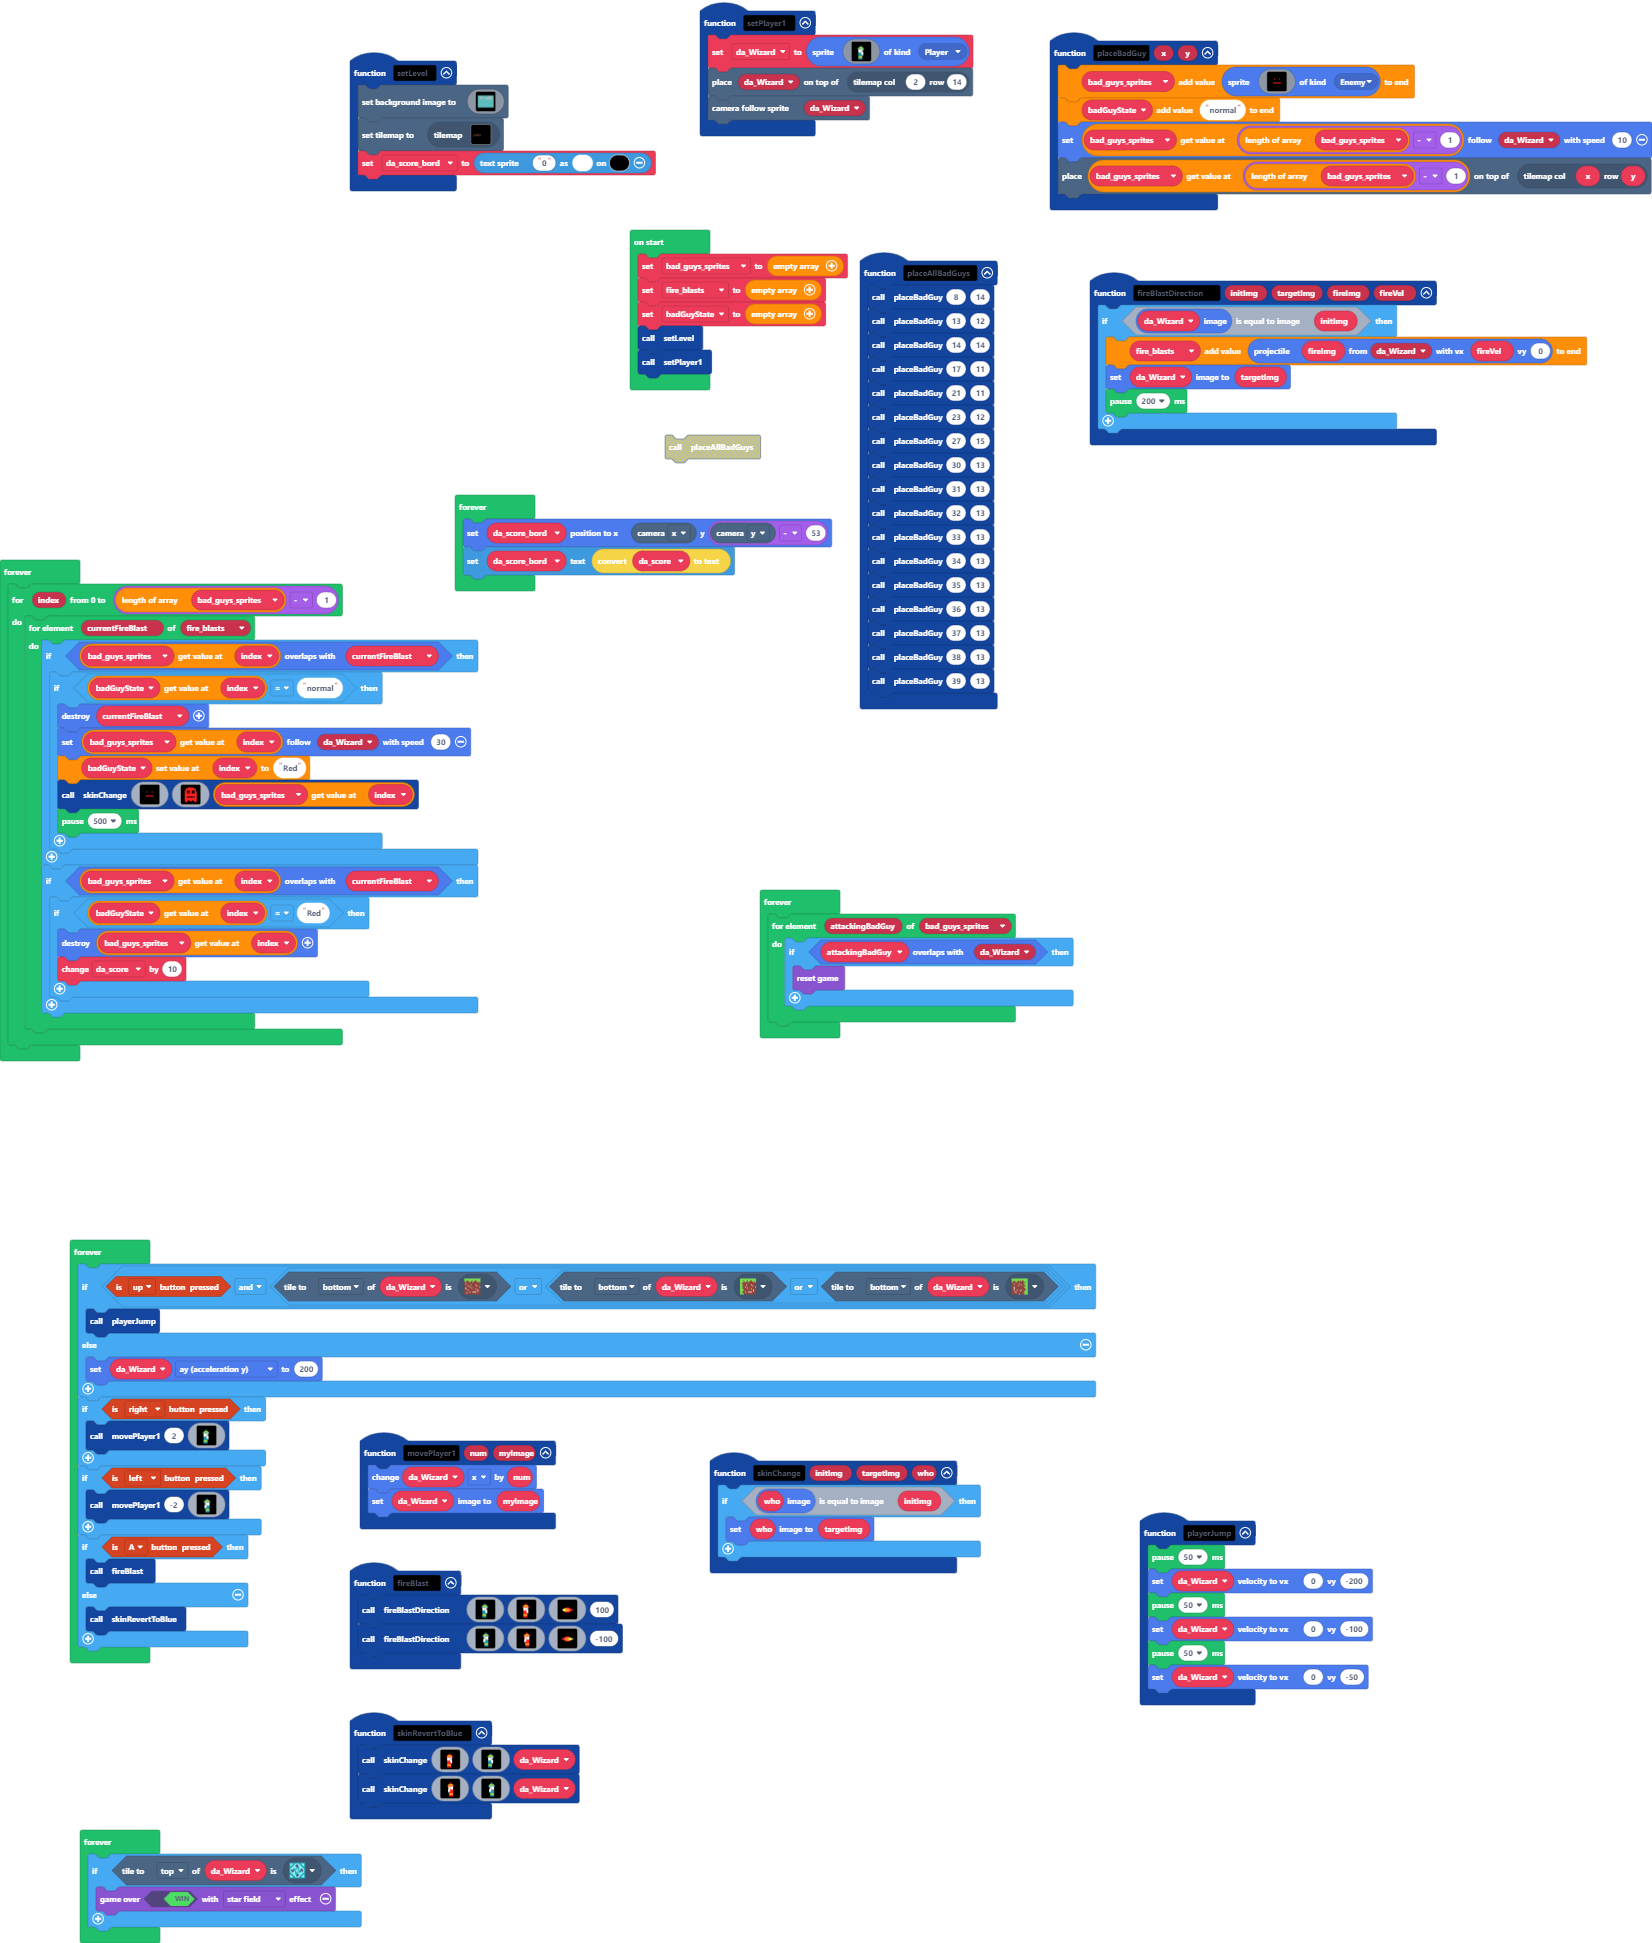
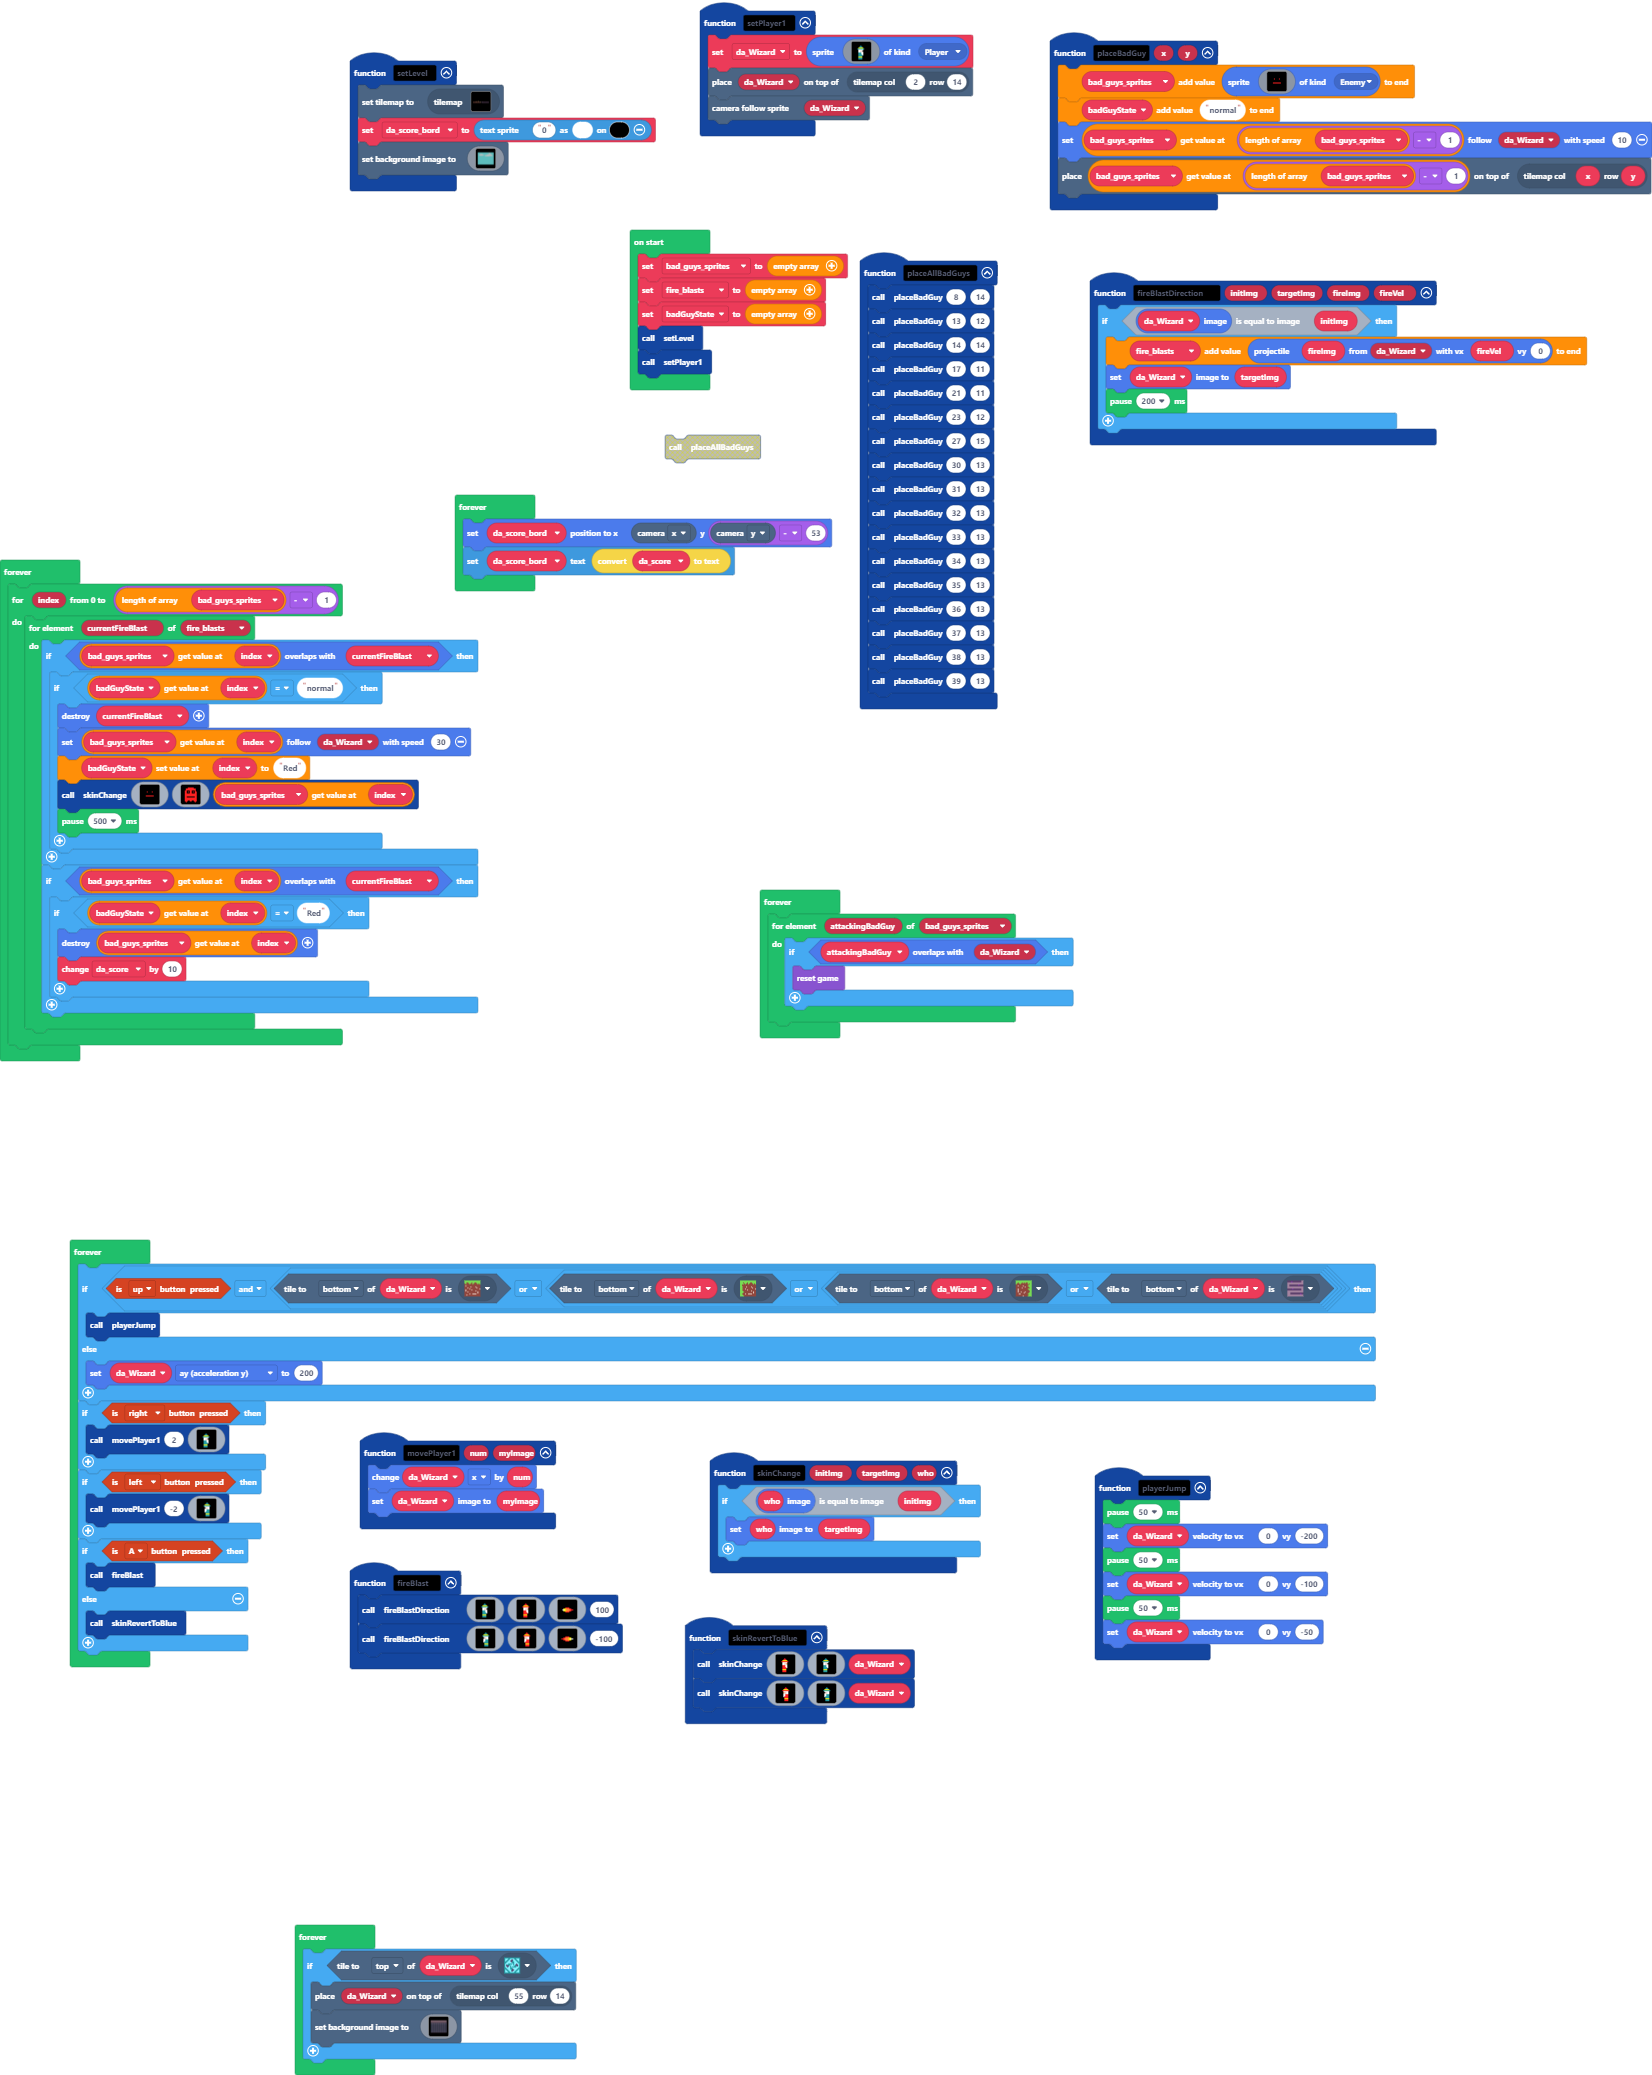
Update main.blocks, main.ts, tilemap.g.jres, tilemap.g.ts

diff --git a/tilemap.g.ts b/tilemap.g.ts
@@ -27,31 +27,8 @@ namespace myTiles {
 
     helpers._registerFactory("tilemap", function(name: string) {
         switch(helpers.stringTrim(name)) {
-            case "level2":
-            case "level2":return tiles.createTilemap(hex`3200140000000000000000000000000000000000000000000000000000000000000000000000000000000000000000000000000000000000000000000000000000000000000000000000000000000000000000000000000000000000000000000000000000000000000000000000000000000000000000000000000000000000000000000000000000000000000000000000000000000000000000000000000000000000000000000000000000000000000000000000000000000000000000000000000000000000000000000000000000000000000000000000000000000000000000000000000000000000000000000000000000000000000000000000000000000000000000000000000000000000000000000000000000000000000000000000000000000000000000000000000000000000000000000000000000000000000000000000000000000000000000000000000000000000000000000000000000000000000000000000000000000000000000000000000000000000000000000000000000000000000000000000000000000000000000000000000000000000000000000000000000000000000000000000000000000000000000000000000000000000000000000000000000000000000000000000000000000000000000000000000000000000000000000000000000000000000000000000000000000000000000000000000000000000000000000000000000000000000000000000000000000000000000000000000000000000000000000000000000000000000000000000000000000000000000000000000000000000000000000000000000000000000000000000000000000000000000000000000000000000000000000000000000000000000000000000000000000000000000000000000000000000000000000000000000000000000000000000000000000000000000000000000000000000000000000000000000000000000000000000000000000000000000000000000000000000000000000000000000000000000000000000000000000000000000000000000000000000000000000000000000000000000000000000000000000000000000000101010101010101010101010101010101010101010101010101010101010101010101010101010101010101010101010101010101010101010101010101010101010101010101010101010101010101010101010101010101010101010101010101010101010101010101010101010101010101010101010101010101010101010101010101010101010101010101010101010101010101010101010101010101010101010101010101010101010101010101010101010101010101010101010101010101010101`, img`
-..................................................
-..................................................
-..................................................
-..................................................
-..................................................
-..................................................
-..................................................
-..................................................
-..................................................
-..................................................
-..................................................
-..................................................
-..................................................
-..................................................
-..................................................
-..................................................
-22222222222222222222222222222222222222222222222222
-22222222222222222222222222222222222222222222222222
-22222222222222222222222222222222222222222222222222
-22222222222222222222222222222222222222222222222222
-`, [myTiles.transparency16,myTiles.tile11], TileScale.Sixteen);
             case "level1":
[2 lines of base64/hex data omitted]
 ....................................................................................................
 ....................................................................................................
 ....................................................................................................
@@ -61,18 +38,18 @@ namespace myTiles {
 ....................................................................................................
 ....................................................................................................
 ....................................................................................................
-................................222.................................................................
-................................222.................................................................
-..............................22222.................................................................
-..................222.........22222.................................................................
-.................222222.............................................................................
-.....222........22222222......222222.........2......................................................
-....2222.......222222222.....2222222................................................................
-22222222222222222222222222222222222222222222222222..................................................
-22222222222222222222222222222222222222222222222222..................................................
-22222222222222222222222222222222222222222222222222..................................................
-22222222222222222222222222222222222222222222222222..................................................
-`, [myTiles.transparency16,sprites.dungeon.collectibleInsignia,myTiles.tile1,myTiles.tile3,myTiles.tile4,myTiles.tile5,myTiles.tile6,myTiles.tile7,myTiles.tile2,myTiles.tile8,myTiles.tile9,myTiles.tile10], TileScale.Sixteen);
+................................222...................2.............................................
+................................222...................2.............................................
+..............................22222...................2.............................................
+..................222.........22222...................2.............................................
+.................222222...............................2.............................................
+.....222........22222222......222222.........2........2.............................................
+....2222.......222222222.....2222222..................2.............................................
+22222222222222222222222222222222222222222222222222....2222222222222222222222222222222222222222222222
+22222222222222222222222222222222222222222222222222....2222222222222222222222222222222222222222222222
+22222222222222222222222222222222222222222222222222....2222222222222222222222222222222222222222222222
+22222222222222222222222222222222222222222222222222....2222222222222222222222222222222222222222222222
+`, [myTiles.transparency16,sprites.dungeon.collectibleInsignia,myTiles.tile1,myTiles.tile3,myTiles.tile4,myTiles.tile5,myTiles.tile6,myTiles.tile7,myTiles.tile2,myTiles.tile8,myTiles.tile9,myTiles.tile10,myTiles.tile11], TileScale.Sixteen);
         }
         return null;
     })

diff --git a/main.ts b/main.ts
@@ -1,7 +1,7 @@
 function setLevel () {
-    scene.setBackgroundImage(assets.image`sus sky`)
     tiles.setCurrentTilemap(tilemap`level1`)
     da_score_bord = textsprite.create("0", 15, 1)
+    scene.setBackgroundImage(assets.image`sus sky`)
 }
 function skinChange (initImg: Image, targetImg: Image, who: Sprite) {
     if (who.image.equals(initImg)) {
@@ -109,7 +109,7 @@ forever(function () {
     }
 })
 forever(function () {
-    if (controller.up.isPressed() && (da_Wizard.tileKindAt(TileDirection.Bottom, assets.tile`Grass up`) || (da_Wizard.tileKindAt(TileDirection.Bottom, assets.tile`Grass left up`) || da_Wizard.tileKindAt(TileDirection.Bottom, assets.tile`Grass right up`)))) {
+    if (controller.up.isPressed() && (da_Wizard.tileKindAt(TileDirection.Bottom, assets.tile`Grass up`) || (da_Wizard.tileKindAt(TileDirection.Bottom, assets.tile`Grass left up`) || (da_Wizard.tileKindAt(TileDirection.Bottom, assets.tile`Grass right up`) || da_Wizard.tileKindAt(TileDirection.Bottom, assets.tile`myTile`))))) {
         playerJump()
     } else {
         da_Wizard.ay = 200
@@ -128,6 +128,7 @@ forever(function () {
 })
 forever(function () {
     if (da_Wizard.tileKindAt(TileDirection.Top, sprites.dungeon.collectibleInsignia)) {
-        game.over(true, effects.starField)
+        tiles.placeOnTile(da_Wizard, tiles.getTileLocation(55, 14))
+        scene.setBackgroundImage(assets.image`castle`)
     }
 })
